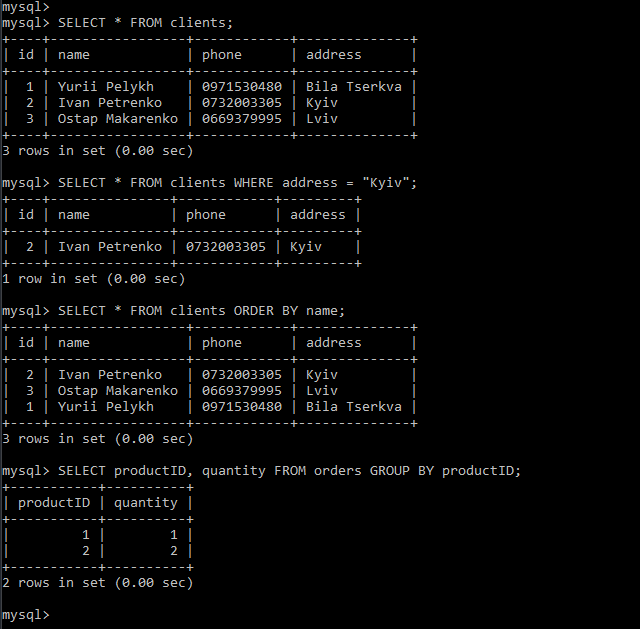
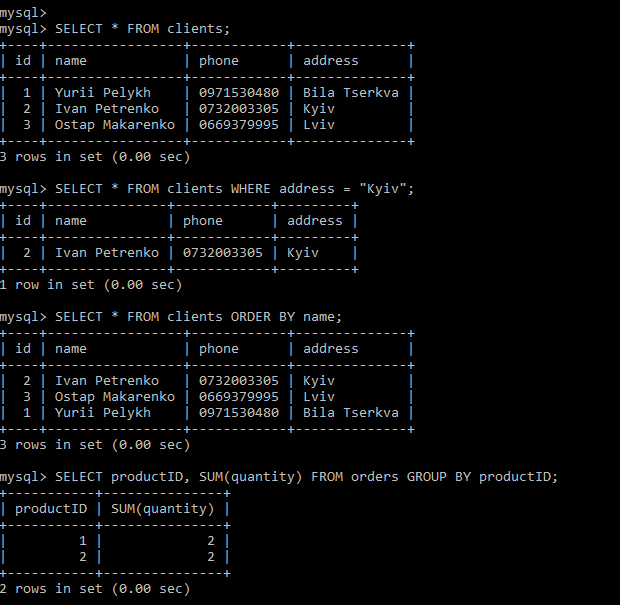
Task4.1 progress save

Changed region(s): [[0.0, 0.0, 0.8887, 1.0]]

diff --git a/m4/task4.1/readme.md b/m4/task4.1/readme.md
@@ -1,102 +1,32 @@
-# Task 3.1. Creating networks Home Office, Enterprise, Data Center  
- In this task:  
- - knowledges of static IP-addressing were remained,  
- - separate segments of the test network in the Cisco Packet Tracer emulator were built, static IP addresses were assigned to devices and connections between them were tested:  
- ![Screen1](./task_images/Screenshot_1.png)  
- - TCP-segment analysis was performed with Wire Shark traffic analyzer:  
- ![Screen2](./task_images/Screenshot_2.png)  
- Sender's MAC address: 00:0d:29:ed:fb:80  
- Recipient's MAC address: 00:e0:2a:68:00:22  
- Sender's IP address: 172.16.15.99  
- Recipient's IP address: 172.16.17.11  
- Sender's TCP port: 64087  
- Recipient's TCP port: 34567  
+# Task 4.1  
 
-# Task 3.2. Connecting separate networks with Internet and VLAN  
- - Simulated Internet connection between previously created network segments:  
- ![Screen3](./task_images/Screenshot_3.png)  
- - Checked the connection of computers with their own gateways:  
- ![Screen4](./task_images/Screenshot_4.png)  
- - Communication of servers in the Data Center with each other:  
- ![Screen5](./task_images/Screenshot_5.png)  
- - If change the mask on the servers from 255.255.255.0 to 255.255.255.192, the connection will be lost, because the servers got thus following IP parameters: 4.2.89.50/26, 4.2.89.100/26, 4.2.89.150/26 - so them will belong to different subnets, about which no information is contained either in the routing tables of the servers themselves, or in the routing table of ISP3 router, which is their default gateway:  
+## Part 1  
+ The basics of database administration were learned, namely:  
+  - Installing MySQL server.  
+  - Design of the database schema. The following database structure was modeled:  
+  ![Screen0](./task_images/DB_schema.png)  
+  - Creating database tables through the console:  
+  ![Screen1](./task_images/Screenshot_1.png)  
+  - Filling tables with INSERT command:  
+  ![Screen2](./task_images/Screenshot_2.png)  
+  - Execution of queries to the database using SELECT and WHERE, GROUP BY and ORDER BY:  
+  ![Screen3](./task_images/Screenshot_3.png)  
+  - Creating new database users, assigning rights to them:  
+  ![Screen4](./task_images/Screenshot_4.png)  
+  ![Screen5](./task_images/Screenshot_5.png)  
+
+## Part 2  
+ - Execution of export (backup) and import (recovery) of the database:  
  ![Screen6](./task_images/Screenshot_6.png)  
- - VLAN configuration on Switch2 (access) ports:  
-
- > Switch2 (config) #interface FastEthernet0/2  
- > Switch2 (config-if) #switchport access vlan 2  
- > Switch2 (config-if) #exit  
- > Switch2 (config) #interface FastEthernet0/3  
- > Switch2 (config-if) #switchport access vlan 3  
- > Switch2 (config-if) #exit  
- > Switch2 (config) #interface FastEthernet0/4  
- > Switch2 (config-if) #switchport access vlan 4  
- > Switch2 (config-if) #exit  
-
- The DC servers still remained inaccessible to each other, as assigning ports on the Switch2 to different VLANs only increased their isolation. To organize accessibility between them, it's need to configure routing between VLANs on the Router ISP3.  
  ![Screen7](./task_images/Screenshot_7.png)  
- - Routing settings between VLANs (optional), Router ISP3:  
-
- > Router-ISP3 (config) #interface GigabitEthernet0/0.2  
- > Router-ISP3 (config-subif) #encapsulation dot1Q 2  
- > Router-ISP3 (config-subif) #ip address 4.2.89.1 255.255.255.192  
- > Router-ISP3 (config-subif) #exit  
- > Router-ISP3 (config) #interface GigabitEthernet0/0.3  
- > Router-ISP3 (config-subif) #encapsulation dot1Q 3  
- > Router-ISP3 (config-subif) #ip address 4.2.89.65 255.255.255.192  
- > Router-ISP3 (config-subif) #exit  
- > Router-ISP3 (config) #interface GigabitEthernet0/0.4  
- > Router-ISP3 (config-subif) #encapsulation dot1Q 4  
- > Router-ISP3 (config-subif) #ip address 4.2.89.129 255.255.255.192  
- > Router-ISP3 (config-subif) #exit  
-
- After that, the servers were able to ping each other:  
+ - Creating a MySQL database on AWS RDS:  
  ![Screen8](./task_images/Screenshot_8.png)  
-
-# Task 3.3. Routing settings  
- - Static routing settings in the simulated network are performed:  
-
- > Router-ISP2 (config) #ip route 10.89.2.0 255.255.255.0 12.4.89.1  
- > Router-ISP2 (config) #ip route 4.2.89.0 255.255.255.0 12.4.89.129  
- > Router-ISP2 (config) #ip route 12.4.89.64 255.255.255.192 12.4.89.1  
- >  
- > Router-ISP1 (config) #ip route 12.4.89.192 255.255.255.192 12.4.89.2  
- > Router-ISP1 (config) #ip route 4.2.89.0 255.255.255.0 12.4.89.66  
- > Router-ISP1 (config) #ip route 12.4.89.128 255.255.255.192 12.4.89.66  
- >  
- > Router-ISP3 (config) #ip route 12.4.89.192 255.255.255.192 12.4.89.130  
- > Router-ISP3 (config) #ip route 10.89.2.0 255.255.255.0 12.4.89.65  
- > Router-ISP3 (config) #ip route 12.4.89.0 255.255.255.192 12.4.89.130  
-
- Full availability of all network hosts with all:  
+ - Transfer of local database to AWS RDS:  
  ![Screen9](./task_images/Screenshot_9.png)  
-
- - Configuring of the dynamic routing based on the RIP protocol (additional task):  
-
- > Router-ISP2 (config) #router rip  
- > Router-ISP2 (config-router) #network 12.0.0.0  
- >  
- > Router-ISP1 (config) #router rip  
- > Router-ISP1 (config-router) #network 10.0.0.0  
- > Router-ISP1 (config-router) #network 12.0.0.0  
- >  
- > Router (config) #router rip  
- > Router (config-router) #network 12.0.0.0  
- > Router (config-router) #network 4.0.0.0  
-
- Full availability of all network hosts with all:  
+ - Execution of queries to the remote database via CLI:  
  ![Screen10](./task_images/Screenshot_10.png)  
-
-# Task 3.4. DHCP, DNS, NAT settings  
- - Setting up DHCP Server in the Enterprise network:  
+ - Creating a database dump using AWS RDS and Workbench:  
  ![Screen11](./task_images/Screenshot_11.png)  
- - Enterprise network clients received IP parameters via DHCP:  
  ![Screen12](./task_images/Screenshot_12.png)  
- - DNS Server settings:  
- ![Screen13](./task_images/Screenshot_13.png)  
- DNS checking:  
- ![Screen14](./task_images/Screenshot_14.png)  
- - Configuring Port Forwarding on the Home Router (additional task):  
- ![Screen15](./task_images/Screenshot_15.png)  
- Checking the operation of port-forwarding:  
- ![Screen16](./task_images/Screenshot_16.png)  
+
+## Part 3  

diff --git a/m4/task4.1/readme-ua.md b/m4/task4.1/readme-ua.md
@@ -1,11 +1,11 @@
 # Завдання 4.1
 
-
+## Частина 1
  Під час виконання завдання було закріплено основи адміністрування БД, а саме:  
   - Встановлення MySQL server.  
   - Опис схеми БД. В якості тестової змодельовано наступну структуру БД:  
   ![Screen0](./task_images/DB_schema.png)  
-  - Створення БД через консоль:  
+  - Створення таблиць БД через консоль:  
   ![Screen1](./task_images/Screenshot_1.png)  
   - Наповнення таблиць командою INSERT:  
   ![Screen2](./task_images/Screenshot_2.png)  
@@ -14,3 +14,21 @@
   - Створення нових користувачів бази даних, призначення їм прав:  
   ![Screen4](./task_images/Screenshot_4.png)  
   ![Screen5](./task_images/Screenshot_5.png)  
+
+## Частина 2
+ - Виконання експорту (бекапу) та імпорту (відновлення) БД:  
+ ![Screen6](./task_images/Screenshot_6.png)  
+ ![Screen7](./task_images/Screenshot_7.png)  
+ - Створення БД MySQL на AWS RDS:  
+ ![Screen8](./task_images/Screenshot_8.png)  
+ - Перенесення локальної БД на AWS RDS:  
+ ![Screen9](./task_images/Screenshot_9.png)  
+ - Виконання запитів до БД через CLI:  
+ ![Screen10](./task_images/Screenshot_10.png)  
+ - Створення дампу БД засобами AWS RDS та Workbench:  
+ ![Screen11](./task_images/Screenshot_11.png)  
+ ![Screen12](./task_images/Screenshot_12.png)  
+
+## Частина 3
+
+aws dynamodb put-item --table-name clients --item '{"client_name": {"S": "Petro Ivanenko"}, "phone_number": {"S": "0732003305"}, "address": {"S": "Berdychiv"}}' --return-consumed-capacity TOTAL
